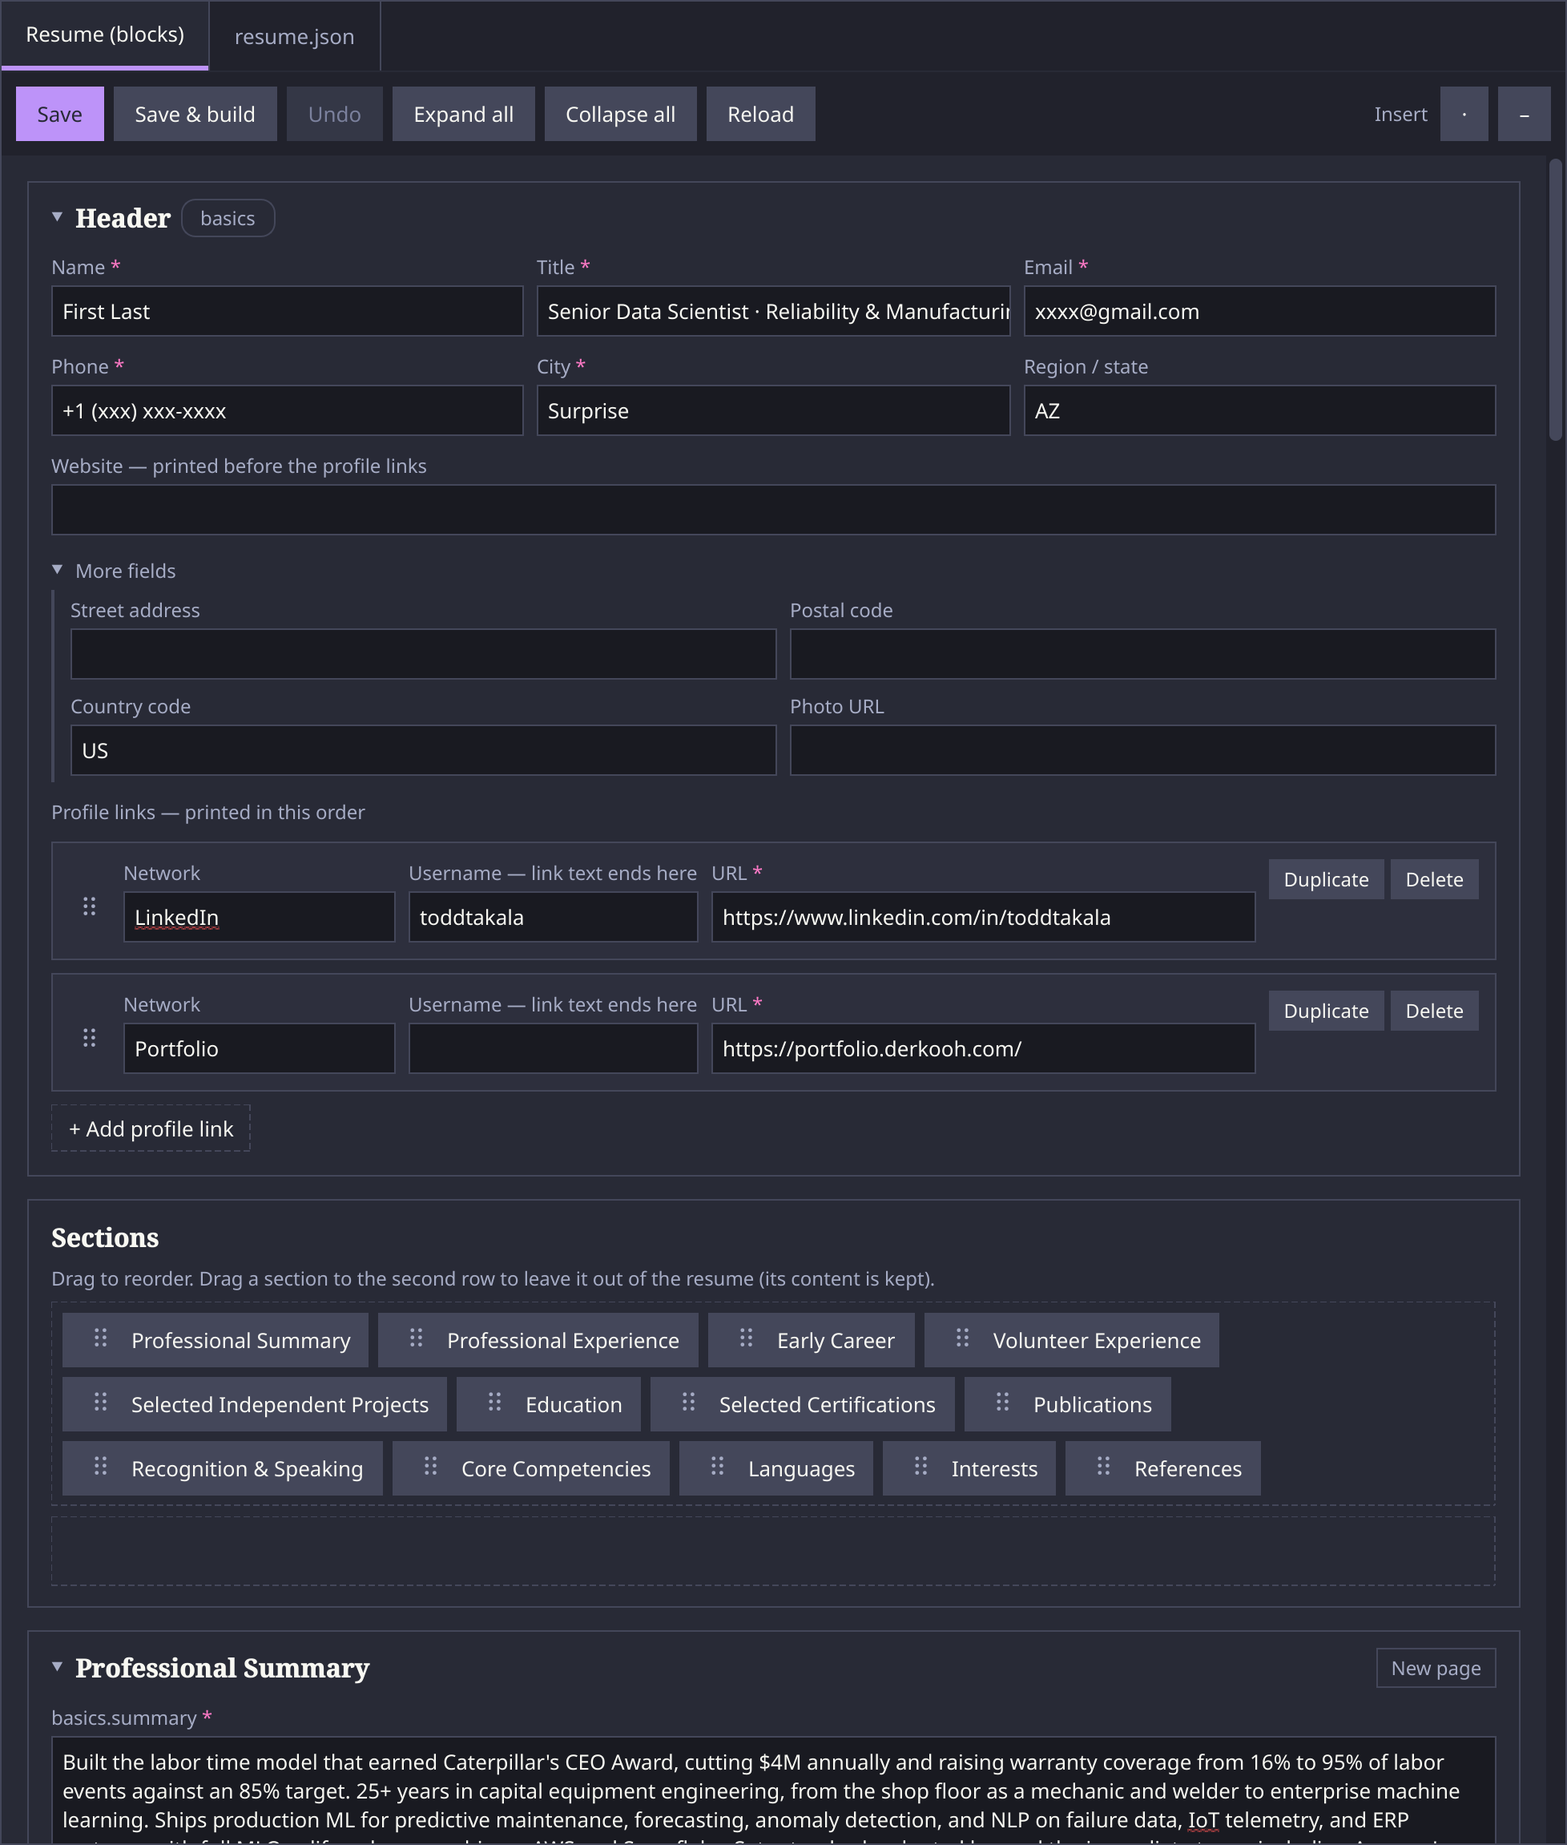
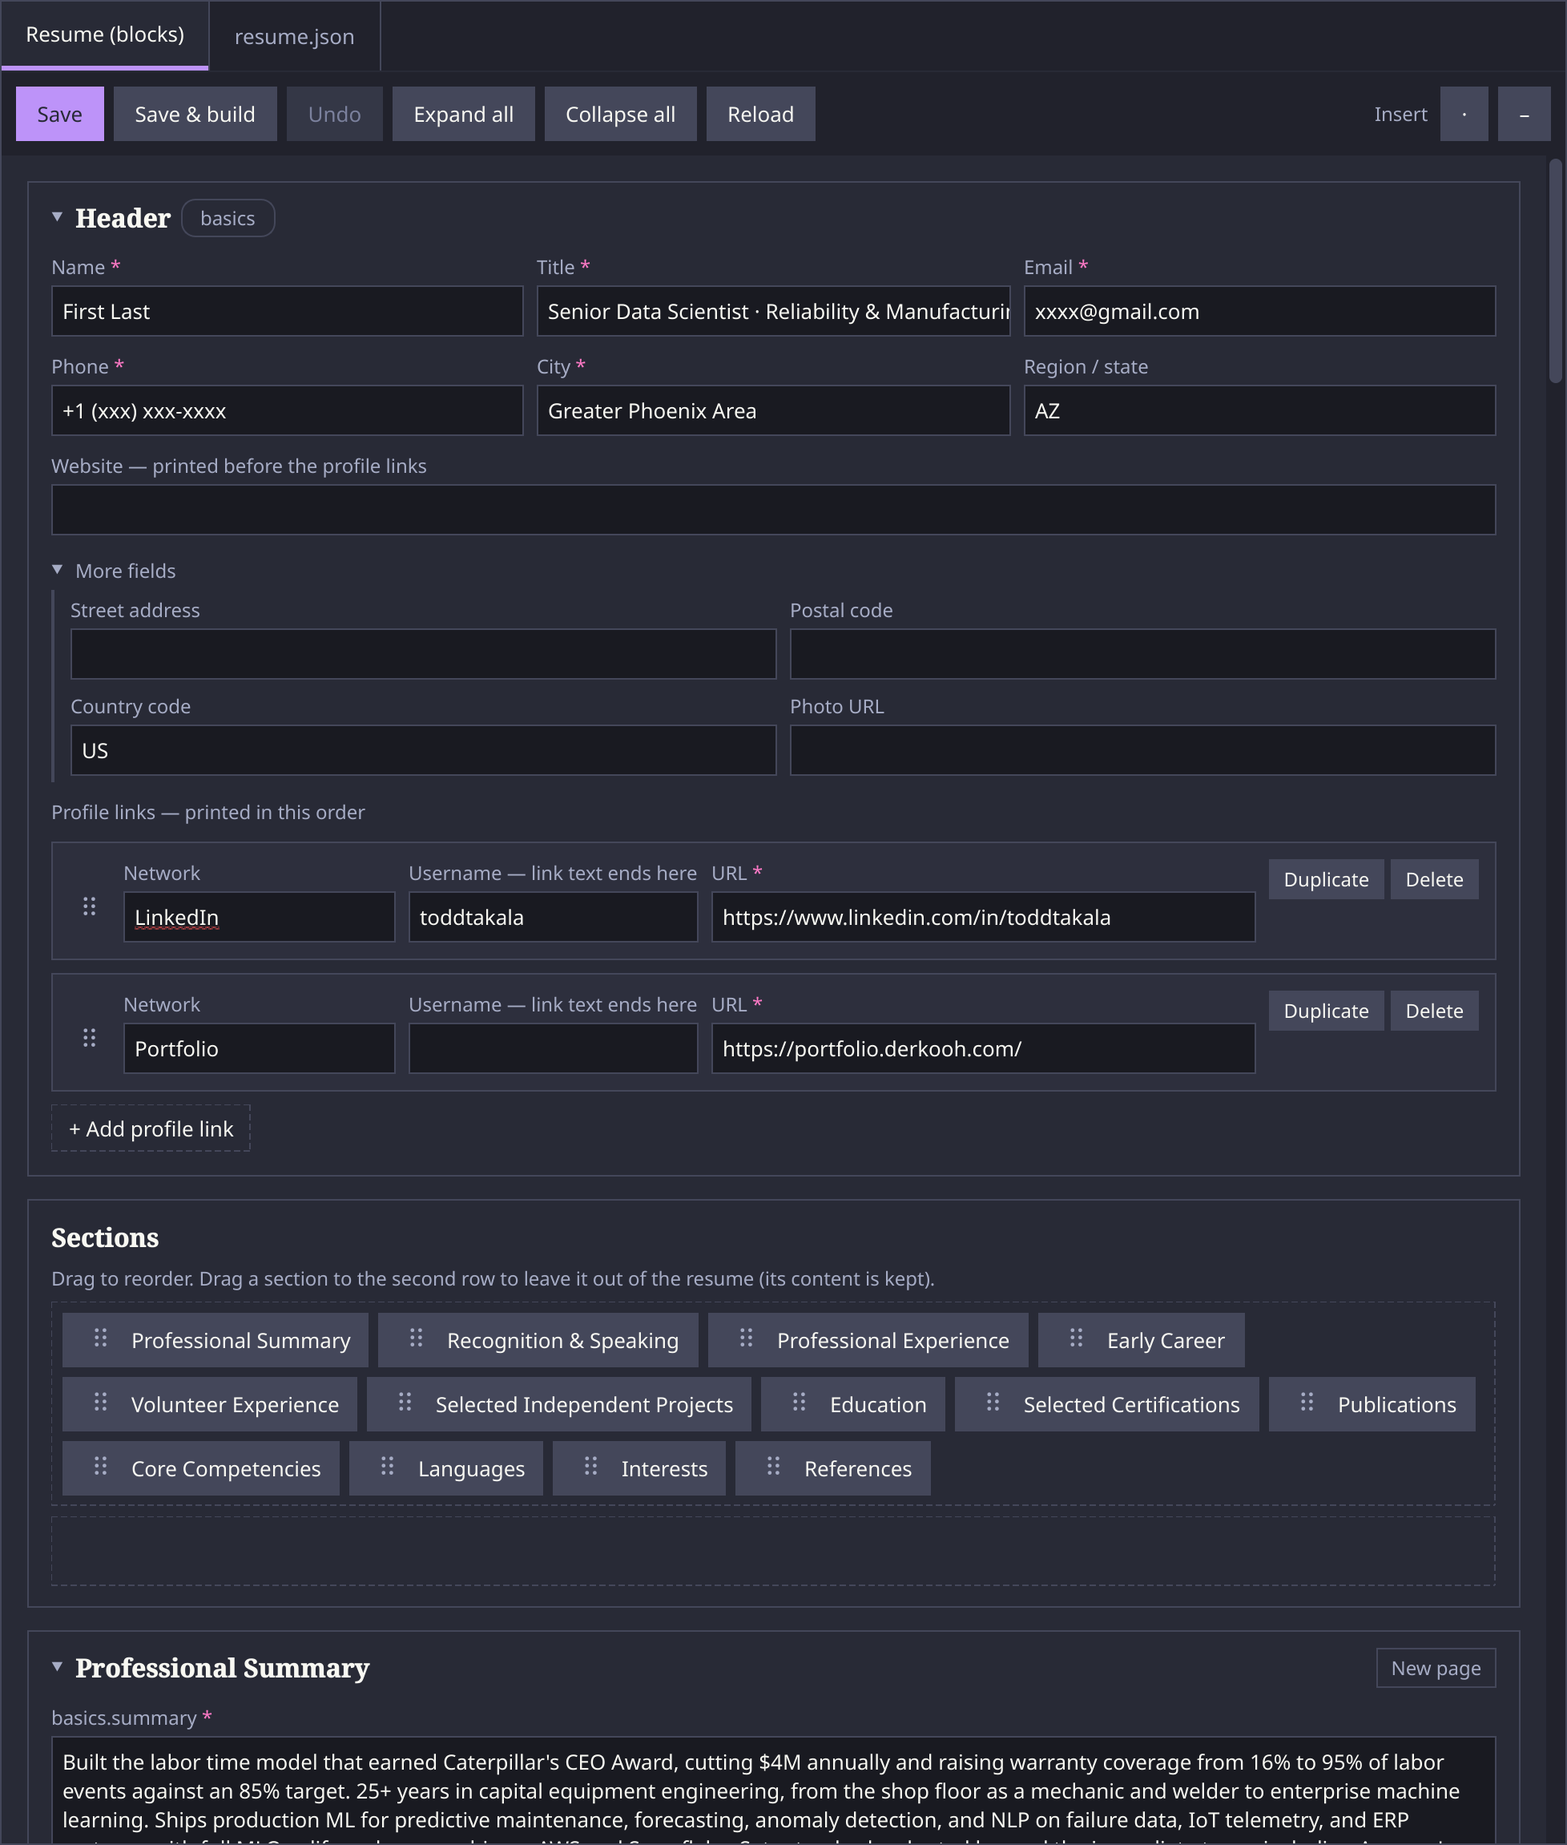
Reorganize the README's editor section and retake the screenshots
The Local editor section had grown by a paragraph per feature. Split it
into subsections (Menus, Live preview, Find and Replace, Page Setup,
and Printing, exporting, and importing) with the points as lists, and
move the list of the editor's source files to a Source files section
at the end.

- README: the `make editor` entry no longer mentions the make buttons,
  which are gone, and Editing the resume points to Page Setup for the
  page geometry
- docs/screenshots: editor-window, editor-blocks,
  editor-blocks-sections, editor-blocks-experience, and
  editor-resume-json retaken from the current editor and resume;
  editor-window now shows the live preview highlighting the field
  being edited
- docs/screenshots: new editor-find.png, editor-page-setup.png, and
  editor-file-menu.png

Changed region(s): [[0.0936, 0.7094, 0.9668, 0.8328], [0.343, 0.2159, 0.4054, 0.2467], [0.9668, 0.2159, 0.998, 0.2467]]

diff --git a/README.md b/README.md
@@ -82,8 +82,8 @@ Example output: [resume.pdf](output/resume.pdf) and
   replaced by underscores and everything else reduced to alphanumerics/underscores
   (for example, "Todd Takala" gives `output/todd_takala_resume.pdf`).
 - `make editor` opens the desktop editor: a drag-and-drop block view of
-  the resume, a raw `resume.json` tab, the `build`/`user` Makefile
-  targets, and the generated PDF.
+  the resume, a raw `resume.json` tab, and a live preview of the PDF; see
+  [Local editor](#local-editor).
 - `make appimage` packages the editor as an AppImage, and `make install-appimage`
   installs it; see [Installing the editor](#installing-the-editor).
 - `make clean` removes auxiliary pdflatex files and generated interim files.
@@ -190,103 +190,140 @@ the [Reactive Resume export](#reactive-resume-export) against its schema. This n
 `jsonschema` from `requirements.txt`; `make build` itself doesn't.
 
 Page geometry lives in [input/geometry.yaml](input/geometry.yaml). Edit that
-file and run `make build` (or `make geometry`) to regenerate
-`interim/geometry.tex`. The [input/format.tex](input/format.tex) file contains
+file, or use the editor's [Page Setup](#page-setup), and run `make build` (or
+`make geometry`) to regenerate `interim/geometry.tex`. The [input/format.tex](input/format.tex) file contains
 the LaTeX layout, commands, and document configuration.
 
 ## Local editor
 
-Run `make editor` to open the editor window. It's a small
-[Qt](https://www.qt.io/) app in [editor/](editor/), written in Python with
-PySide6, so it needs the packages in `requirements.txt`
-(`pip install -r requirements.txt`). The window
-([editor/main.py](editor/main.py)) reads and writes the files in `input/` and
-runs the Makefile targets; the block editor is
-[editor/blocks.py](editor/blocks.py), on top of the document model in
-[editor/document.py](editor/document.py) and the drag-and-drop widgets in
-[editor/widgets.py](editor/widgets.py), with spelling and grammar checking in
-[editor/proofing.py](editor/proofing.py), the PDF preview in
-[editor/preview.py](editor/preview.py), Find and Replace in
-[editor/find.py](editor/find.py), the live preview in
-[editor/live.py](editor/live.py), resume folders in
-[editor/project.py](editor/project.py), and the colors in
-[editor/style.qss](editor/style.qss). The editor imports the section list from
-the generators and the JSON Resume schema check from
-[scripts/validate_resume.py](scripts/validate_resume.py), so it uses the same
-rules as `make build` and `make validate`.
+Run `make editor` to open the editor window. It's a [Qt](https://www.qt.io/)
+app in [editor/](editor/), written in Python with PySide6, so it needs the
+packages in `requirements.txt` (`pip install -r requirements.txt`). To start
+it from the applications menu instead, see
+[Installing the editor](#installing-the-editor).
 
-The editor has two tabs — **Resume (blocks)** and `resume.json` — plus a side
-panel with a preview of the generated PDF and, above it, the output of the
-last make run. `make build` and `make user` are run from the File menu.
+![Editor window: menu bar, block editor, and the live PDF preview](docs/screenshots/editor-window.png)
+
+The window has two tabs on the left, **Resume (blocks)** and `resume.json`,
+and a live preview of the PDF on the right. Drag the gap between them to
+resize them.
+
+- Messages about saves and builds appear under the window's title.
+- A dot on a tab marks unsaved changes. Closing the window, reloading the
+  files, or switching to another resume with any asks first.
+- After a make target runs, its output is in a **Last make output** box above
+  the preview, which opens by itself if the target failed.
+
+### Menus
+
+Every command is in the menu bar:
+
+![The File menu](docs/screenshots/editor-file-menu.png)
+
+- **File**
+  - New Resume (Ctrl+N), Open Resume Folder (Ctrl+O), and Open Recent: see
+    [Resume folders](#resume-folders).
+  - Save (Ctrl+S) and Save & Build (Ctrl+B) act on the tab that is showing.
+    Reload from Disk (Ctrl+R) rereads the files in `input/`.
+  - Run make build and Run make user run those [Make targets](#make-targets).
+  - Page Setup (Ctrl+Shift+P): see [Page Setup](#page-setup).
+  - Print PDF (Ctrl+P), Open PDF (Ctrl+Shift+O), Import JSON Resume (Ctrl+I),
+    Export PDF (Ctrl+E), Export TXT, Export JSON, and Download rxresume.json:
+    see [Printing, exporting, and importing](#printing-exporting-and-importing).
+  - Quit (Ctrl+Q).
+- **Edit**
+  - Undo, Redo, Cut, Copy, Paste, and Select All act on the text box you're
+    in.
+  - Undo Block Change (Ctrl+Alt+Z) is the block editor's own **Undo**.
+  - Find (Ctrl+F), Find Next (F3), Find Previous (Shift+F3), and Replace
+    (Ctrl+H): see [Find and Replace](#find-and-replace).
+  - Insert Middle Dot (Ctrl+.) and Insert En Dash (Ctrl+-) type those
+    characters into the block editor field you're in.
+  - Pretty-print JSON reformats the raw tab.
+- **View**
+  - Resume (blocks) (Ctrl+1) and resume.json (Ctrl+2) switch tabs.
+  - Expand All (Ctrl+Shift+E) and Collapse All (Ctrl+Shift+C) open and close
+    the block editor's cards.
+  - Wrap Lines, for the raw tab; Live Preview; and Full Screen (F11).
+
+### Live preview
+
 The preview is [PDF.js](https://mozilla.github.io/pdf.js/), Mozilla's PDF
-viewer, with its page thumbnails, search, and zoom; it is vendored in
+viewer, with its own page thumbnails, search, and zoom. It is vendored in
 [editor/pdfjs/](editor/pdfjs/), so it works offline.
 
-The preview is live: about a second after you stop typing, the editor builds
-the PDF from what is on screen, saved or not, and shows it without losing your
-place. It also highlights the text of the field you're in and scrolls the
-preview to it; moving to another field moves the highlight. (Text the PDF
-prints differently from how it's typed, such as dates, isn't highlighted.)
-The build runs `make pdf` in a temporary copy of the project, so `input/` and
-`output/` are untouched: `output/resume.pdf`, which **Print PDF** and **Open
-PDF** use, still changes only when you run a make target. A line above the
-preview says when it includes unsaved changes, or why it couldn't be updated
-(for example while a required field is empty). **View > Live Preview** turns
-it off, leaving the preview on `output/resume.pdf`.
-Drag the gap between the tabs and the side panel to resize them. Messages
-about saves and builds appear under the window's title, and a dot on a tab
-marks unsaved changes; closing the window or reloading the files with any asks
-first. In the File menu, **Print PDF** (Ctrl+P, or the preview's own print
-button) prints the generated PDF after asking for the printer and pages,
-and **Open PDF** opens it in your system's PDF viewer. Four commands save a
-copy wherever you choose, offering your Downloads folder: **Export PDF**
-runs `make pdf` and saves the PDF, **Export TXT** runs `make txt` and saves
-the plain-text resume, **Export JSON** saves `input/resume.json`
-(the JSON Resume document), and **Download rxresume.json** runs
-`make rxresume` and saves the
-[Reactive Resume export](#reactive-resume-export). The PDF, text, and JSON are
-offered under a name taken from the resume, such as `todd_takala_resume.pdf`.
-All four use the saved files, so unsaved edits aren't included.
+- About a second after you stop typing, the editor builds the PDF from what
+  is on screen, saved or not, and shows it without losing your place.
+- The text of the field you're in is highlighted in the preview, which
+  scrolls to it, as in the screenshot above. Moving to another field moves
+  the highlight. Text the PDF prints differently from how it's typed, such as
+  dates, isn't highlighted.
+- The build runs `make pdf` in a temporary copy of the project, so `input/`
+  and `output/` are untouched. `output/resume.pdf` still changes only when a
+  make target runs.
+- A line above the preview says when it includes unsaved changes, or why it
+  couldn't be updated (for example while a required field is empty). The last
+  good preview stays on show meanwhile.
+- **View > Live Preview** turns it off, leaving the preview on
+  `output/resume.pdf`.
+
+### Find and Replace
+
+**Edit > Find** opens a bar under the tabs:
+
+![The Find bar, with a match selected in the block editor](docs/screenshots/editor-find.png)
+
+- It searches the tab that is showing: every field of the block editor, in
+  order, or the raw `resume.json`. A match in a collapsed card opens the card.
+- The bar shows which match you're on ("3 of 9"), and has **Match case** and
+  **Whole words** options.
+- **Replace** and **Replace all** type the replacement into the fields, so
+  each field's own undo reverses it.
+- Esc closes the bar. The PDF preview isn't searched; it has a search of its
+  own in its toolbar.
+
+### Page Setup
+
+**File > Page Setup** edits the page margins and footer distance in
+[input/geometry.yaml](input/geometry.yaml):
+
+![The Page Setup dialog](docs/screenshots/editor-page-setup.png)
+
+- Each length is a number and a unit (in, cm, mm, or pt). Changing the unit
+  converts the number.
+- The preview follows the dialog as you change values.
+- OK writes the file straight away, keeping its comments and any length you
+  didn't change as it was written. Cancel leaves the file alone.
+- The paper size isn't here: it is US Letter, set in
+  [input/format.tex](input/format.tex).
+
+### Printing, exporting, and importing
+
+These File menu commands work on the saved files, so save first to include
+your latest edits:
+
+- **Print PDF** prints `output/resume.pdf` after asking for the printer and
+  pages. The preview's own print button does the same.
+- **Open PDF** opens `output/resume.pdf` in your system's PDF viewer.
+- **Export PDF** runs `make pdf`, and **Export TXT** runs `make txt`, then
+  asks where to save a copy.
+- **Export JSON** asks where to save a copy of `input/resume.json`, the JSON
+  Resume document.
+- **Download rxresume.json** runs `make rxresume`, then asks where to save
+  the [Reactive Resume export](#reactive-resume-export).
+
+The exports offer your Downloads folder, and the PDF, text, and JSON a name
+taken from the resume, such as `todd_takala_resume.pdf`.
 
 **Import JSON Resume** goes the other way: it replaces the resume in the
 editor with one from a [JSON Resume](https://jsonresume.org/schema) file,
-such as an export from another tool. Nothing is written to
-`input/resume.json` until you save, so **Reload from Disk** undoes it. A file
-that doesn't match the schema is still imported, with a message saying what
-to fix before it can be saved; the section order and layout are kept.
+such as an export from another tool.
 
-![Editor window: menu bar, block editor, and the PDF preview](docs/screenshots/editor-window.png)
-
-The menu bar has the commands, with keyboard shortcuts:
-
-- **File**: New Resume (Ctrl+N), Open Resume Folder (Ctrl+O), and Open Recent
-  (see [Resume folders](#resume-folders)); Save (Ctrl+S) and Save & Build (Ctrl+B) for the current tab,
-  Reload from Disk (Ctrl+R), the make targets, Page Setup (Ctrl+Shift+P),
-  Print PDF (Ctrl+P), Open PDF
-  (Ctrl+Shift+O), Import JSON Resume (Ctrl+I), Export PDF (Ctrl+E), Export TXT, Export JSON, Download
-  rxresume.json, and
-  Quit (Ctrl+Q).
-- **Edit**: Undo, Redo, Cut, Copy, Paste, and Select All for the text box
-  you're in; Undo Block Change (Ctrl+Alt+Z), which is the block editor's own
-  **Undo**; Find (Ctrl+F), Find Next (F3), Find Previous (Shift+F3), and
-  Replace (Ctrl+H); Insert Middle Dot (Ctrl+.) and En Dash (Ctrl+-); and
-  Pretty-print JSON.
-- **View**: the two tabs (Ctrl+1, Ctrl+2), Expand All and Collapse All for the
-  block editor's cards, Wrap Lines for the raw tab, Live Preview, and Full
-  Screen (F11).
-
-**Page Setup** edits the page margins and footer distance in
-[input/geometry.yaml](input/geometry.yaml), each as a number and a unit (in,
-cm, mm, or pt; changing the unit converts the number). The preview follows
-the dialog as you change values. OK writes the file, keeping its comments;
-Cancel leaves it as it was.
-
-**Find** opens a bar under the tabs that searches the tab that is showing:
-every field of the block editor, in order (opening any collapsed card a match
-is in), or the raw `resume.json`. It shows which match you're on ("3 of 9"),
-with **Match case** and **Whole words** options, and **Replace** / **Replace
-all** type the replacement into the fields, so each field's own undo reverses
-it. Esc closes the bar. The PDF preview has its own search, in its toolbar.
+- Nothing is written to `input/resume.json` until you save, so **Reload from
+  Disk** undoes the import.
+- A file that doesn't match the schema is still imported, with a message
+  saying what to fix before it can be saved.
+- The section order, layout, and page setup are kept.
 
 ### Resume folders
 
@@ -333,9 +370,8 @@ from the applications menu instead of a terminal:
 The AppImage holds the editor and the template files that New Resume copies;
 resumes stay in their own [resume folders](#resume-folders). The installed
 launcher opens this checkout the first time, and after that whichever folder
-was open last. The make commands still
-need Make, Python, pdflatex, and Pandoc on the machine, as do spell checking
-(Enchant) and grammar checking (Java).
+was open last. The make commands still need Make, Python, pdflatex, and Pandoc
+on the machine, spell checking needs Enchant, and grammar checking needs Java.
 
 ### Block editor
 
@@ -392,11 +428,12 @@ Professional Experience shows one card per employer:
   adds a `pagebreak` line to `section_order.yaml`, and the Sections card marks
   that section "new page"; the others set `pagebreakBefore` on the entry. An
   employer's toggle is its first role's, so the first role has none of its own.
-- **Undo** reverses the last add, delete, move, or New page toggle (typing
-  uses each field's own undo). **Save** checks the same rules as the generators (header fields,
-  employer names, positions, a highlight or summary for each role, no blank
-  highlights, required fields in each section, valid dates) and highlights
-  anything missing. **Save & build** saves, then runs `make build`.
+- **Undo** reverses the last add, delete, move, or New page toggle. Typing
+  uses each field's own undo.
+- **Save** checks the same rules as the generators (header fields, employer
+  names, positions, a highlight or summary for each role, no blank highlights,
+  required fields in each section, valid dates) and highlights anything
+  missing. **Save & build** saves, then runs `make build`.
 
 ### Spelling and grammar
 
@@ -435,7 +472,26 @@ JSON Resume schema, instead of being written.
 
 The LaTeX layout ([input/format.tex](input/format.tex)) has no tab; edit it in
 a text editor. The page geometry ([input/geometry.yaml](input/geometry.yaml))
-is edited with File > Page Setup.
+is edited with [Page Setup](#page-setup).
+
+### Source files
+
+The editor imports the section list from the generators and the JSON Resume
+schema check from [scripts/validate_resume.py](scripts/validate_resume.py), so
+it uses the same rules as `make build` and `make validate`. Its own code is in
+[editor/](editor/):
+
+- [main.py](editor/main.py): the window, menus, and make runner.
+- [blocks.py](editor/blocks.py) and [document.py](editor/document.py): the
+  block editor and the resume model behind it.
+- [widgets.py](editor/widgets.py): the cards and drag-and-drop lists.
+- [live.py](editor/live.py), [preview.py](editor/preview.py), and
+  [preview.js](editor/preview.js): the live preview and the PDF.js view.
+- [proofing.py](editor/proofing.py): spelling and grammar checking.
+- [find.py](editor/find.py): Find and Replace.
+- [page_setup.py](editor/page_setup.py): the Page Setup dialog.
+- [project.py](editor/project.py): resume folders.
+- [style.qss](editor/style.qss): the colors.
 
 ## Reactive Resume export
 
